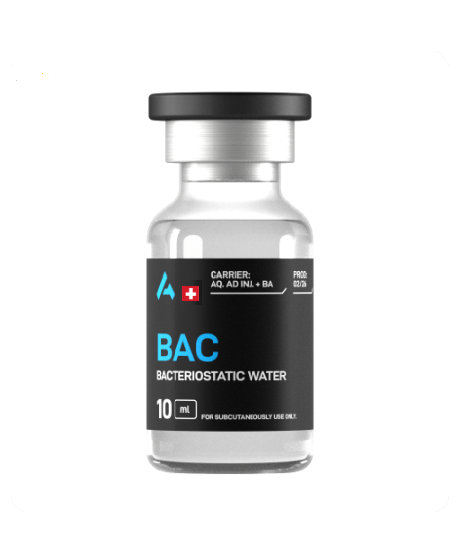
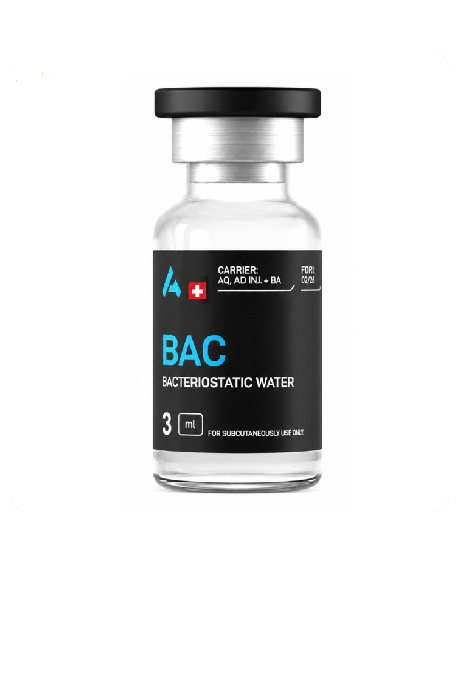
Update August Sales and BAC Water

Changed region(s): [[0.2985, 0.1225, 0.6866, 0.8577]]

diff --git a/src/ProductPage.jsx b/src/ProductPage.jsx
@@ -109,7 +109,7 @@ useEffect(() => {
       <h3>Kostenlos dabei, im Preis inbegriffen!</h3>
 
       <p>
-        Zu diesem Peptid erhältst du 10ml Bakteriostatisches Wasser (BAC) gratis dazu.
+        Zu diesem Peptid erhältst du 3ml Bakteriostatisches Wasser (BAC) gratis dazu.
       </p>
 
       <ul className="bonus-list">
